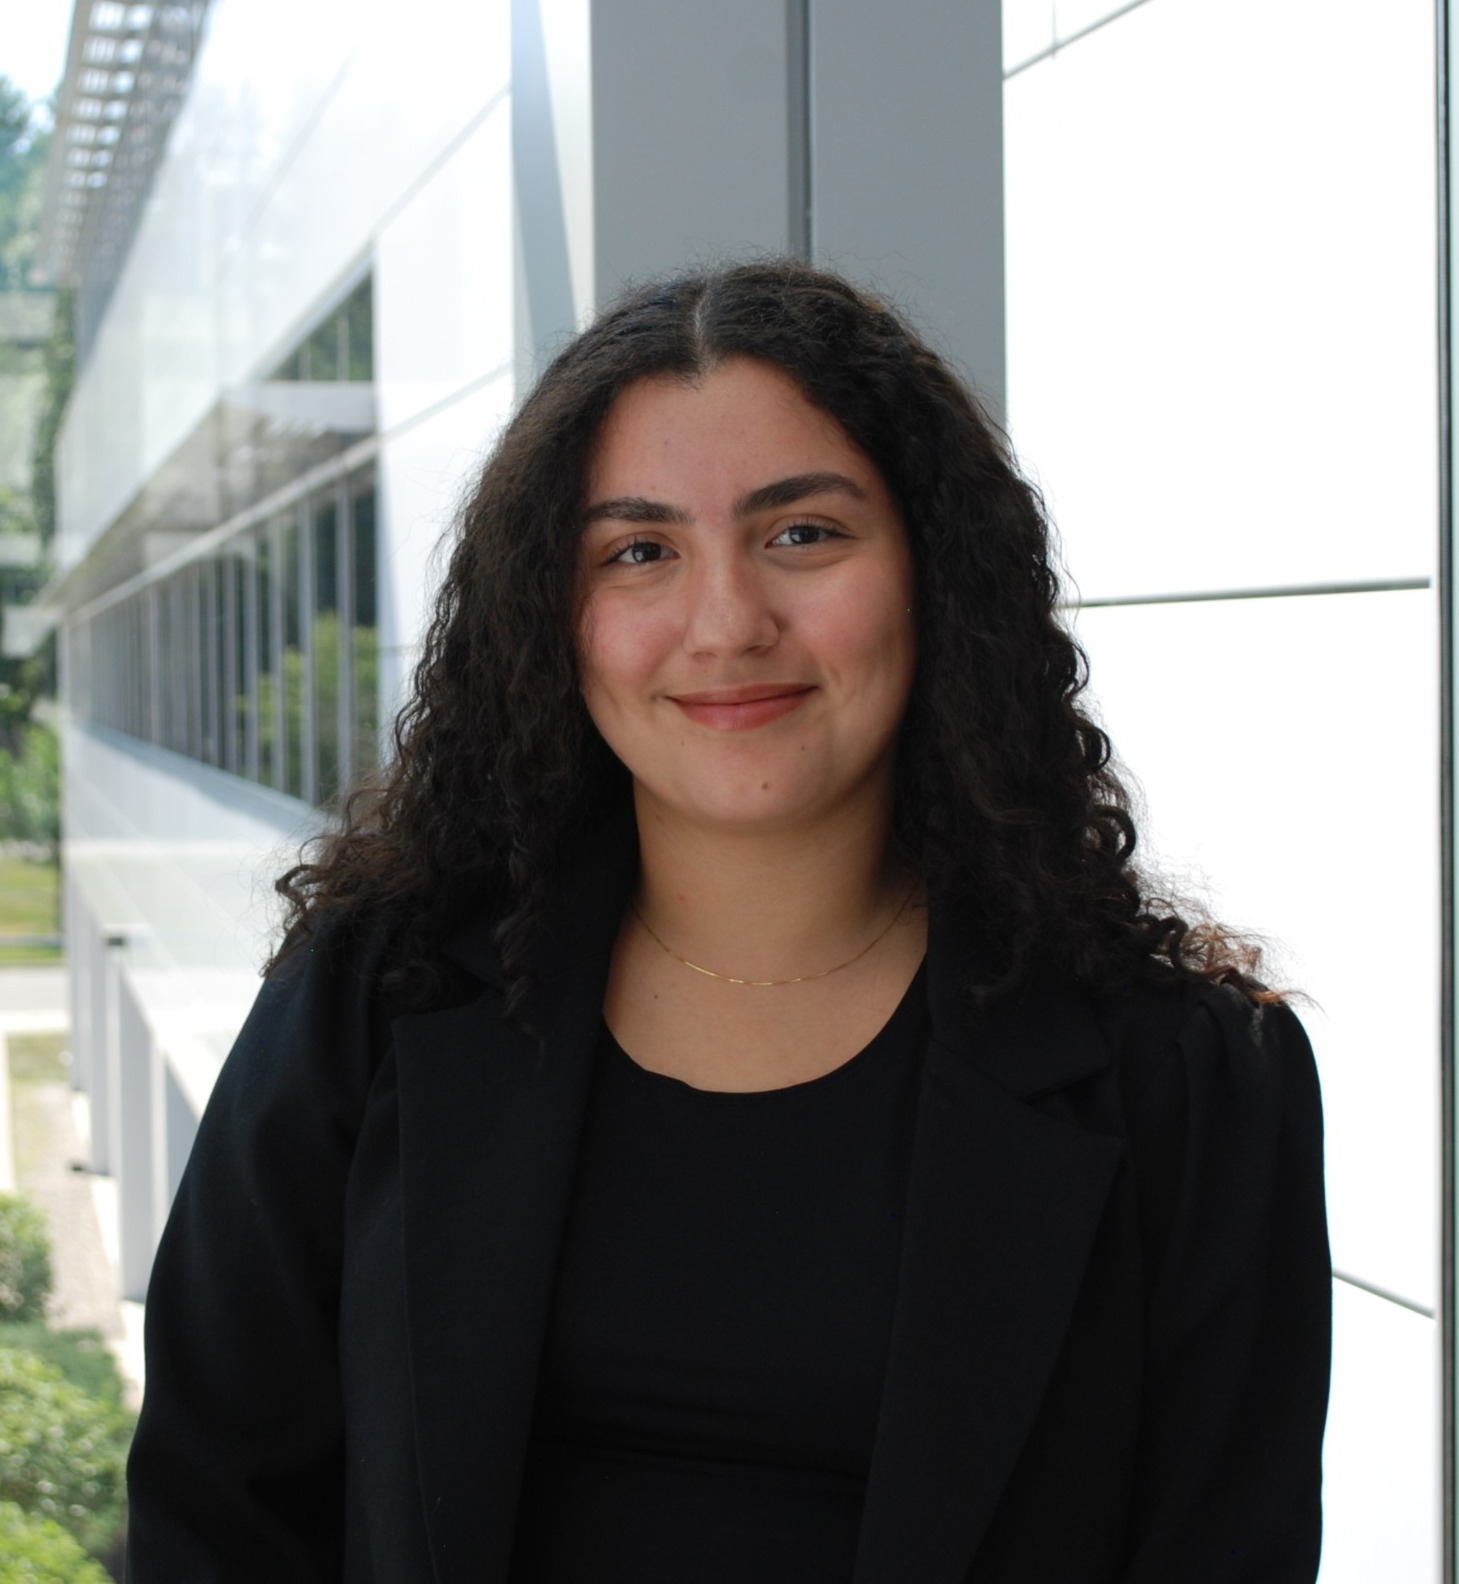
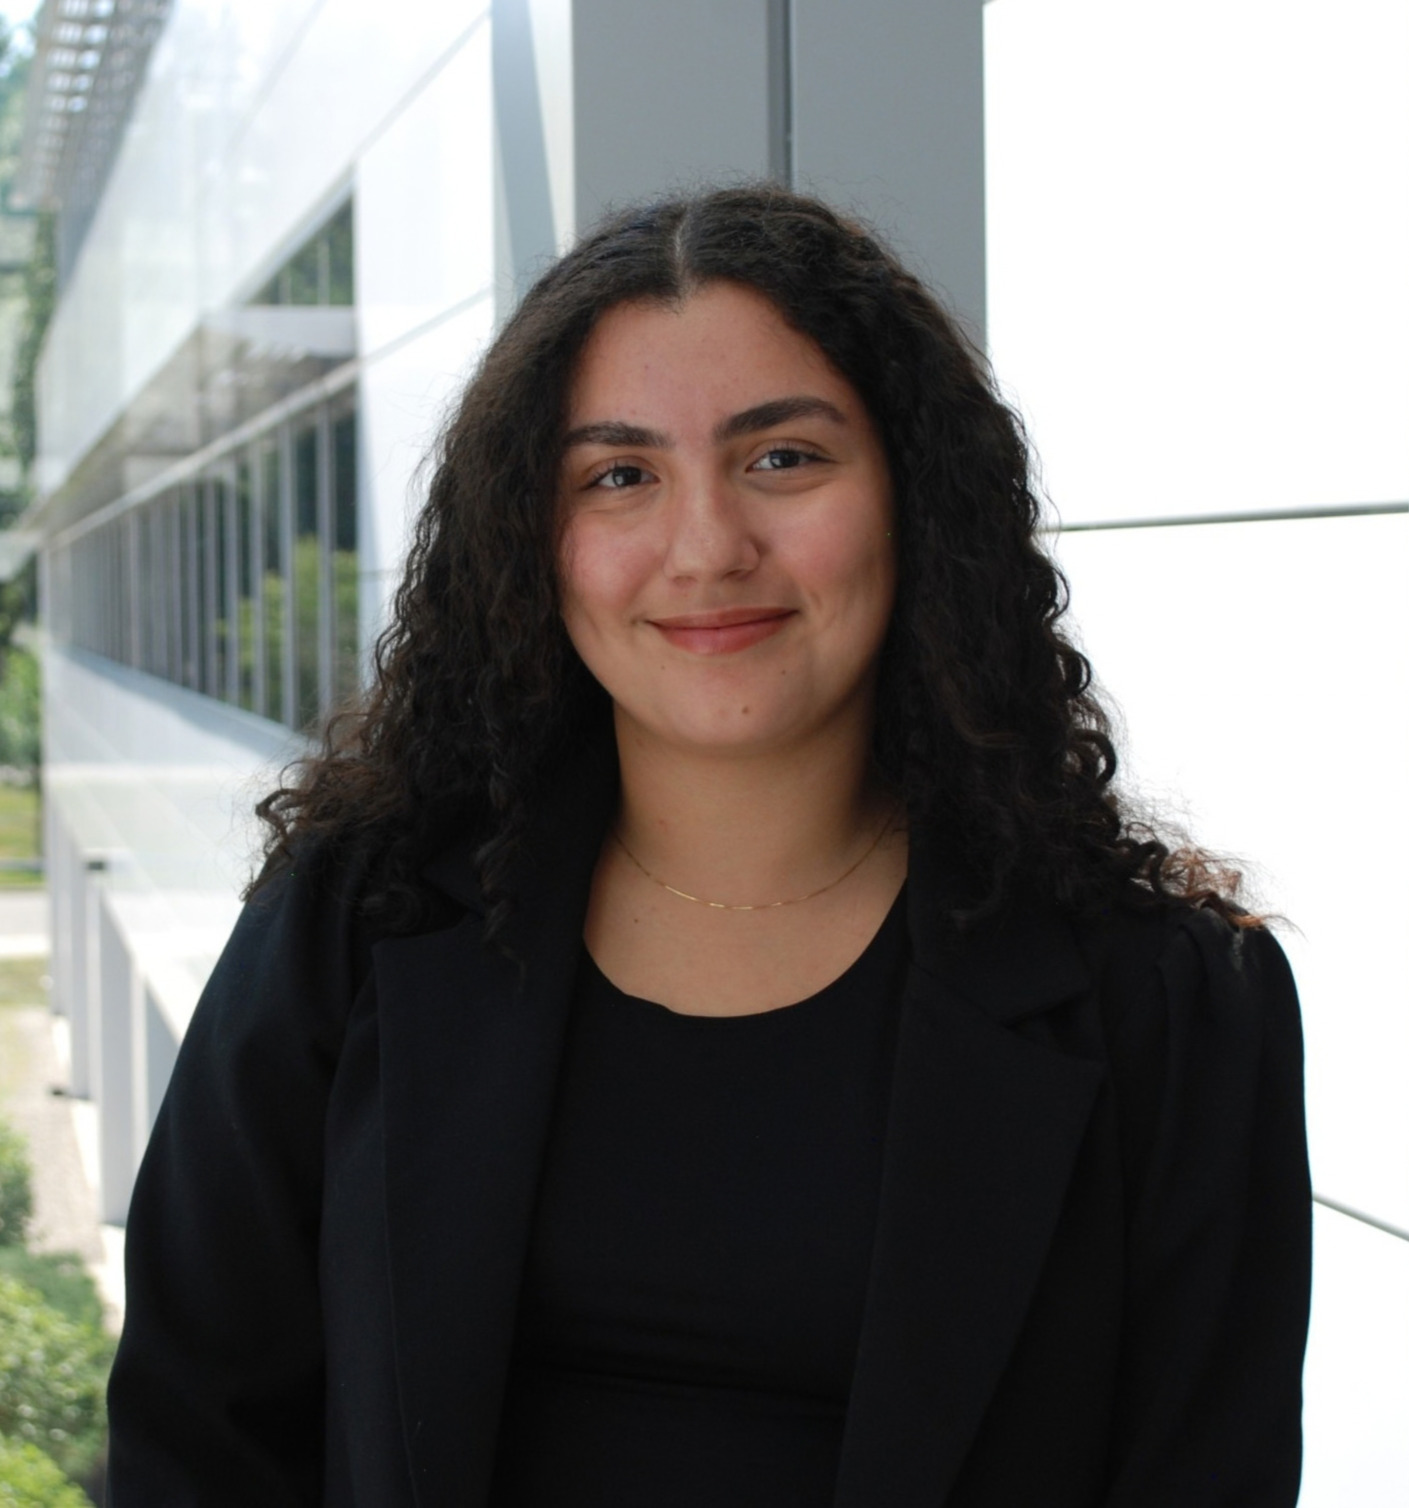
add capital one sponsor

Changed region(s): [[0.0, 0.0, 1.0, 1.0], [0.5621, 0.5298, 0.6558, 0.6545]]

diff --git a/src/app/data/team-data.ts b/src/app/data/team-data.ts
@@ -69,11 +69,11 @@ export const execBoard: ExecMember[] = [
   {
     name: "Jonathan Lopez Flores",
     position: "Webmaster",
-    image: "/images/leadership/2026-2027/jonathan.png",
+    image: "/images/leadership/2026-2027/jonathan.jpg",
     imagePosition: "top",
     major: "CS",
     year: "'29",
-    email: "",
+    email: "jal579@cornell.edu",
     linkedin: "https://www.linkedin.com/in/jonathanlopezf/",
   },
   {

diff --git a/src/app/data/sponsorship-data.ts b/src/app/data/sponsorship-data.ts
@@ -45,6 +45,7 @@ export const sponsorsByTier: Record<Tier | "Other", string[]> = {
   Gold: [
     "/images/sponsors/Bloomberg.jpeg",
     "/images/sponsors/Accenture.svg-2.png",
+    "/images/sponsors/Capital_One_logo.svg.png",
   ],
   Silver: [],
   Bronze: ["/images/sponsors/Jane_Street.png"],
